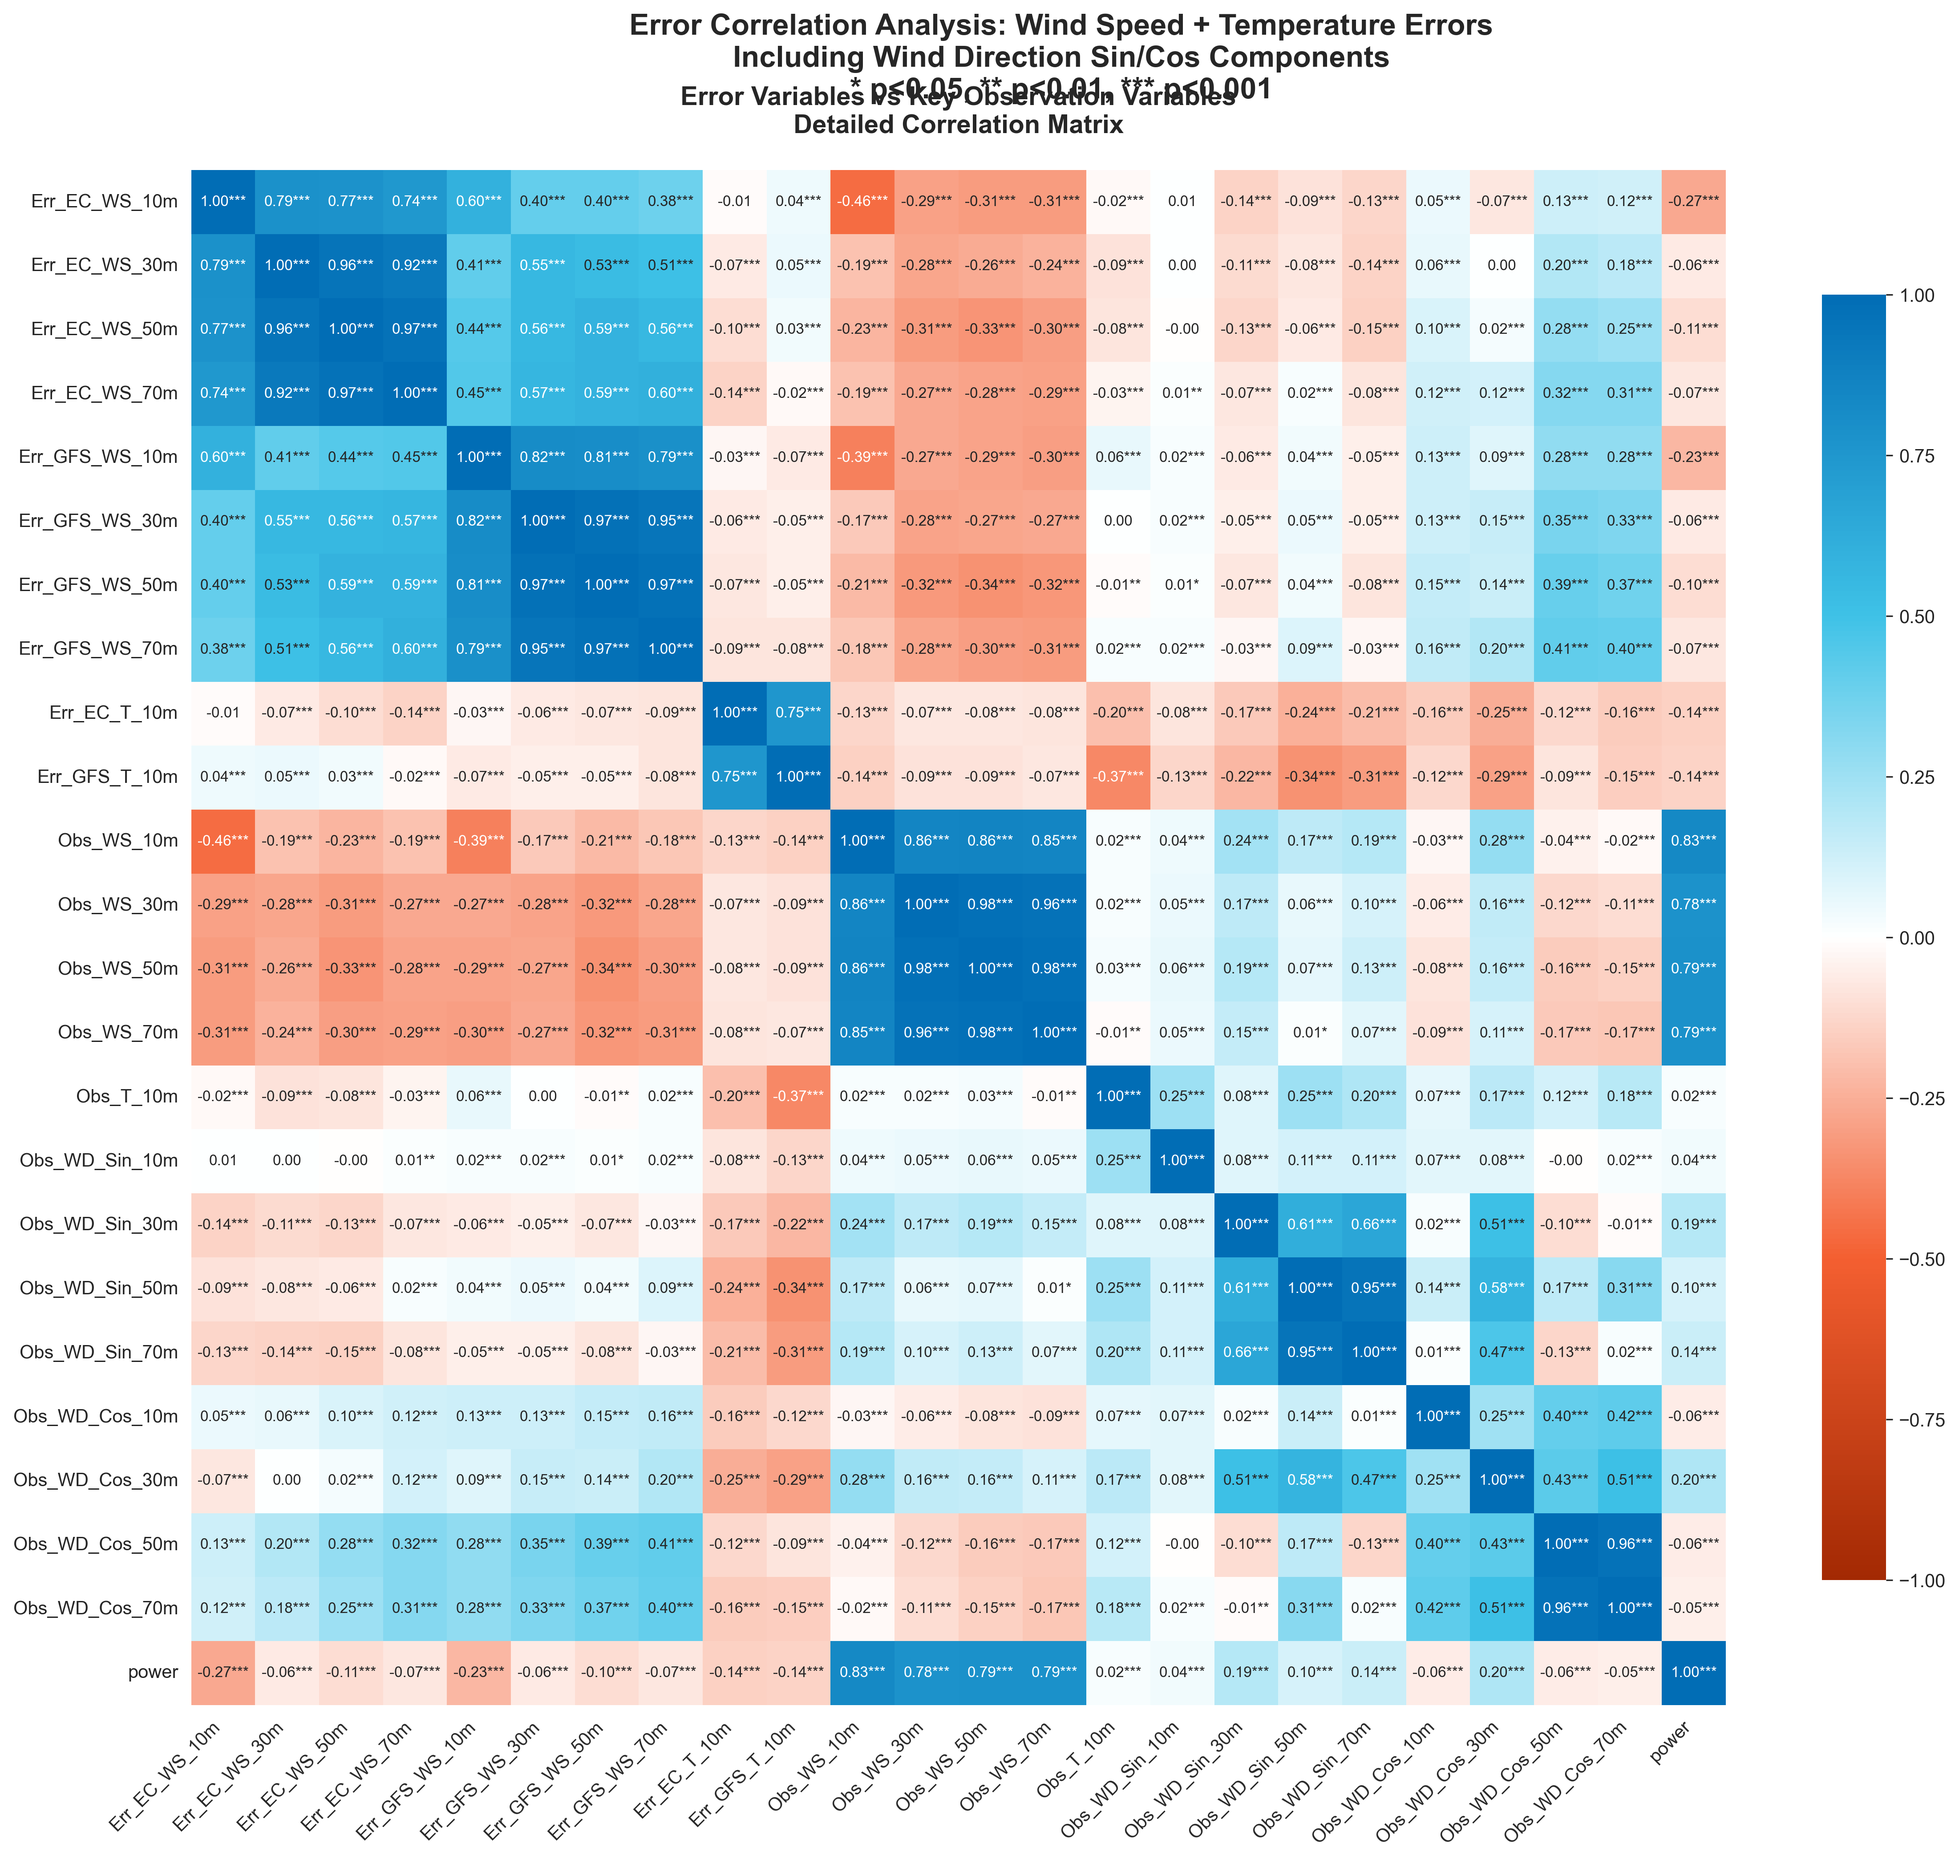
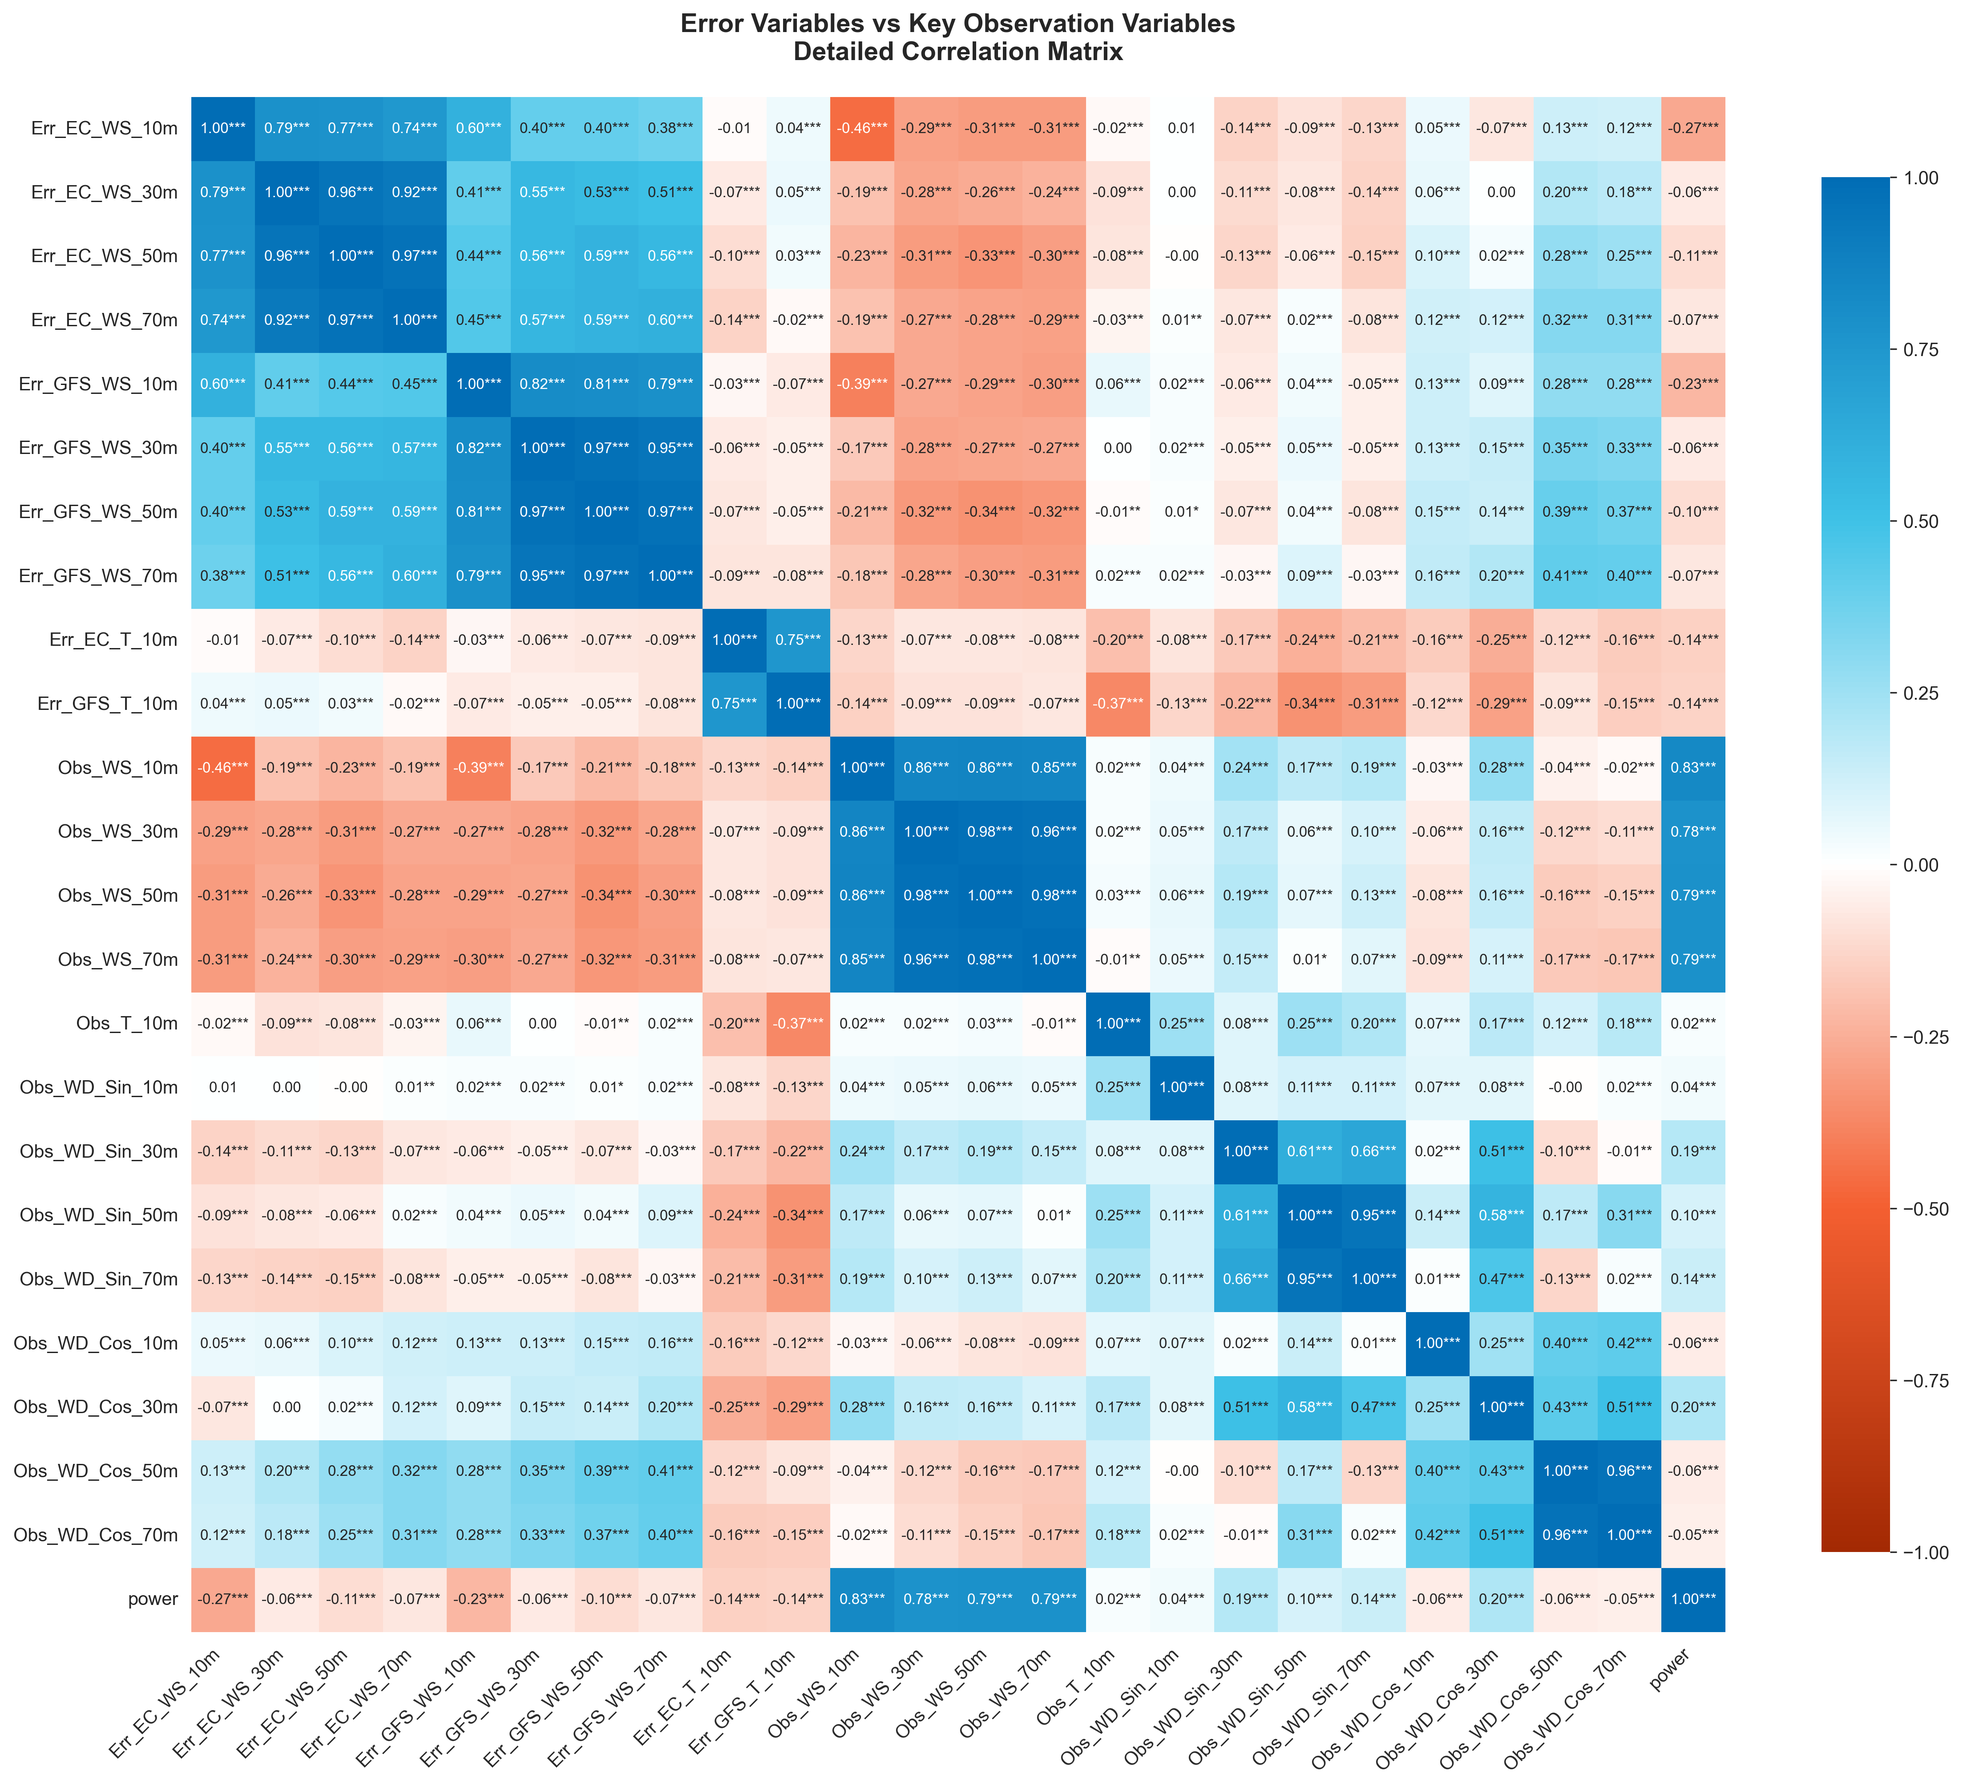
main

Changed region(s): [[0.0, 0.0, 0.9648, 0.9963], [0.9025, 0.8406, 0.9959, 0.8717], [0.9648, 0.7472, 0.9959, 0.7783]]

diff --git a/02_Code/preprocessing/误差序列相关.py b/02_Code/preprocessing/误差序列相关.py
@@ -407,8 +407,8 @@ def create_heatmap(corr_results, output_path):
     
     # Create single focused plot
     fig, ax = plt.subplots(1, 1, figsize=(16, 14))
-    fig.suptitle('Error Correlation Analysis: Wind Speed + Temperature Errors\nIncluding Wind Direction Sin/Cos Components\n* p<0.05, ** p<0.01, *** p<0.001', 
-                 fontsize=16, fontweight='bold')
+    # fig.suptitle('Error Correlation Analysis: Wind Speed + Temperature Errors\nIncluding Wind Direction Sin/Cos Components\n* p<0.05, ** p<0.01, *** p<0.001', 
+    #              fontsize=16, fontweight='bold')
     
     colormap = create_custom_colormap()
     
